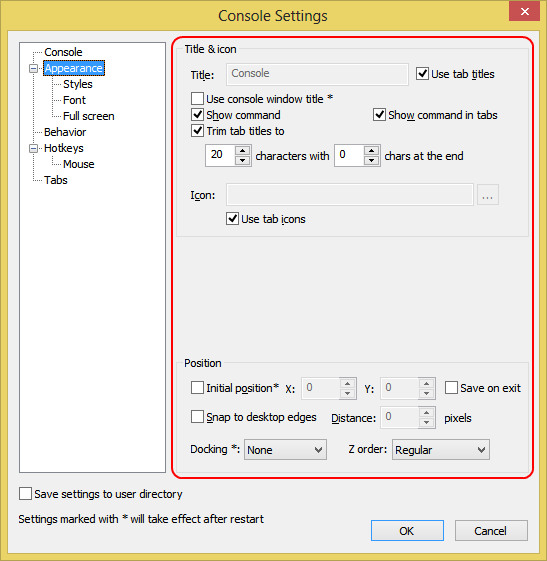
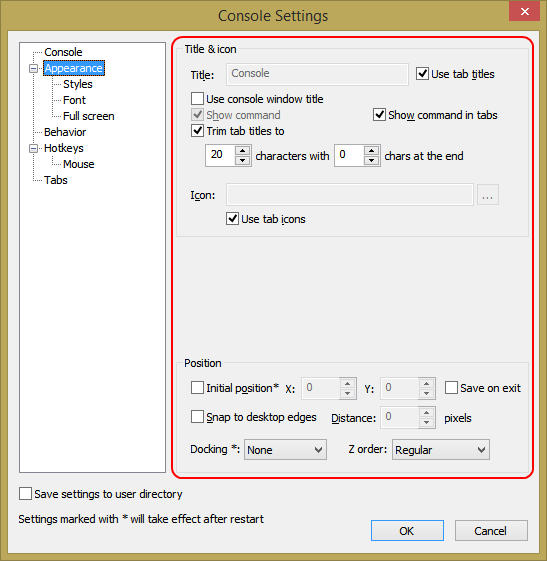
version 1.9.0.13303

Changed region(s): [[0.0, 0.0, 1.0, 1.0], [0.3419, 0.1818, 0.5283, 0.2121]]

diff --git a/shared/version.h b/shared/version.h
@@ -3,7 +3,7 @@
 #define VERSION_MAJOR     1
 #define VERSION_MINOR     9
 #define VERSION_BUILD     0
-#define VERSION_BUILD2    13281
+#define VERSION_BUILD2    13303
 #define VERSION_FILE      "1.9.0"
-#define VERSION_PRODUCT   "1, 9, 0, 13281"
+#define VERSION_PRODUCT   "1, 9, 0, 13303"
 #define VERSION_COPYRIGHT "Copyright (C) 2011-2013 Bucher Christophe"

diff --git a/README.md b/README.md
@@ -28,6 +28,17 @@ Changelog
         + added
         * fixed
 
+Changes in 1.09.0 beta 1 (30 Oct 2013)
+
+        ! Title options are more consistent.
+        + Focus follows mouse.
+        + New actions in "File" menu:
+          "Close All Tabs BUT This"
+          "Close All Tabs to the Left"
+          "Close All Tabs to the Right"
+        + Right click on tabs: selects the tab and displays a popup menu.
+        * Fix problem with dead chars sent to multiple consoles.
+
 Changes in 1.08.0 (28 Sep 2013)
 
         ! Prettier split bar (aero only)
